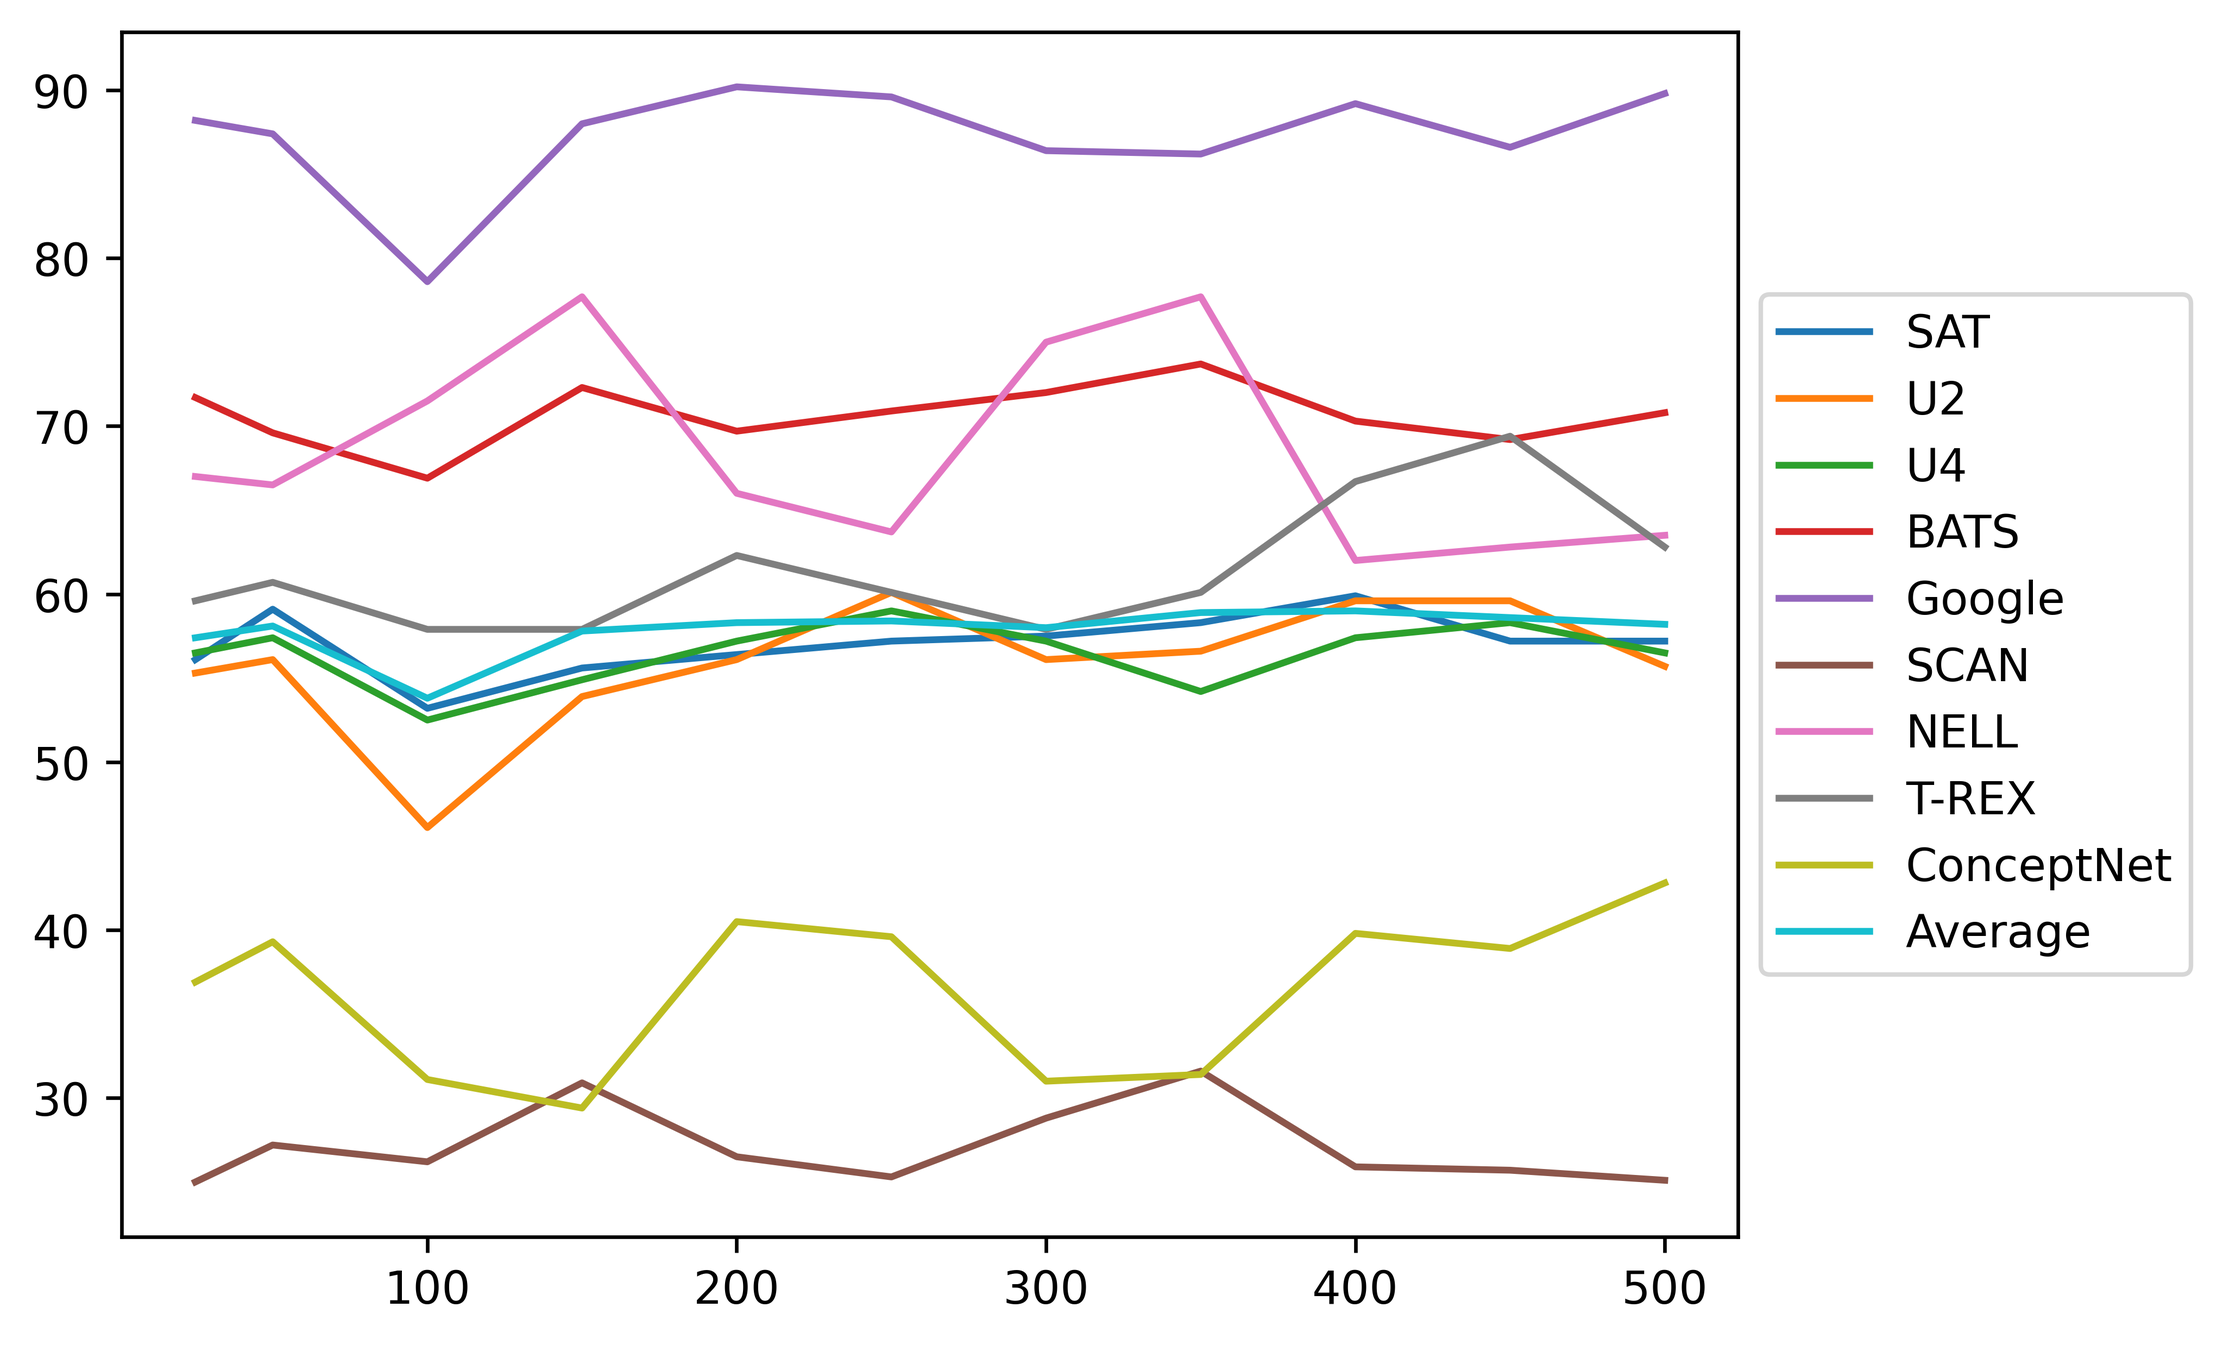
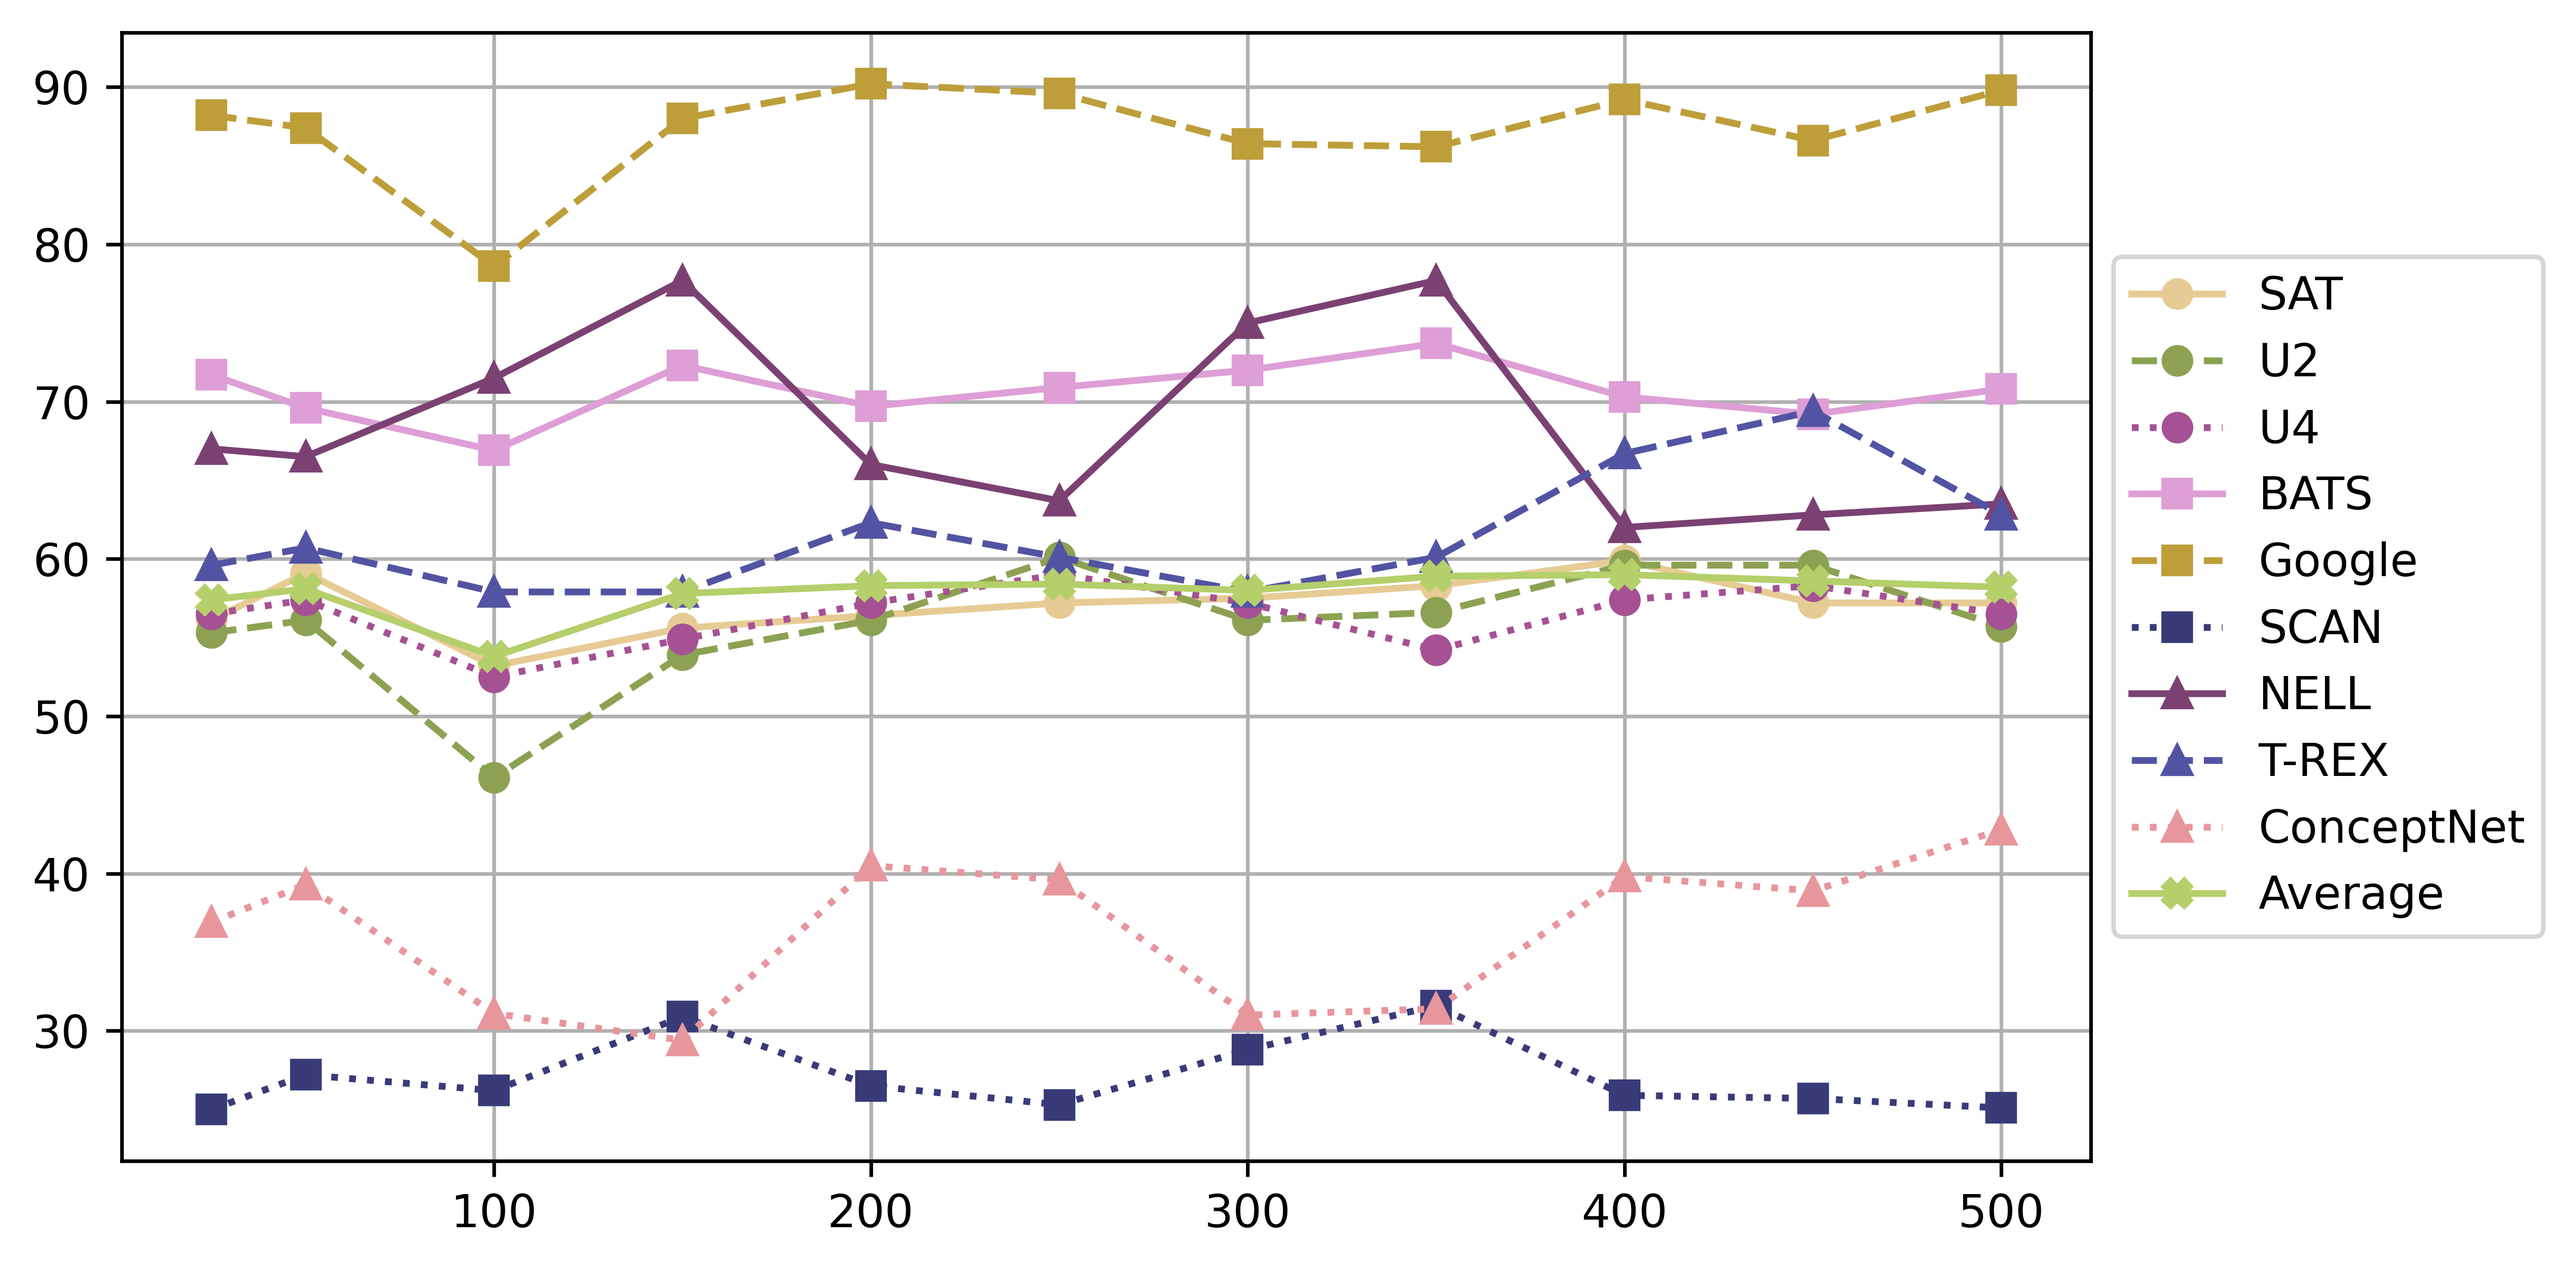
init

diff --git a/examples/journal/ablation_domain_wise_prediction/main.py b/examples/journal/ablation_domain_wise_prediction/main.py
@@ -1,0 +1,46 @@
+import os
+from statistics import mean
+
+import pandas as pd
+from datasets import load_dataset
+from relbert import RelBERT
+
+os.makedirs("results", exist_ok=True)
+
+def cosine_similarity(a, b):
+    norm_a = sum(map(lambda x: x * x, a)) ** 0.5
+    norm_b = sum(map(lambda x: x * x, b)) ** 0.5
+    return sum(map(lambda x: x[0] * x[1], zip(a, b)))/(norm_a * norm_b)
+
+
+data_names = {
+    'u2': [],
+    'u4': [],
+    'google': [],
+    'bats': [],
+    'scan': []
+}
+
+
+model = RelBERT("relbert/relbert-roberta-large")
+
+for i in data_names.keys():
+    if not os.path.exists(f"results/{i}.csv"):
+
+        data = load_dataset("relbert/analogy_questions", i, split='test')
+        v_stem = model.get_embedding(data['stem'])
+
+        choice_flat = []
+        choice_index = []
+        for n, c in enumerate(data['choice']):
+            choice_flat += c
+            choice_index += [n] * len(c)
+        v_choice_flat = model.get_embedding(choice_flat)
+
+        v_choice = [[v for v, c_i in zip(v_choice_flat, choice_index) if c_i == _i] for _i in range(len(data['choice']))]
+        assert len(v_choice) == len(v_stem)
+        sims = [[cosine_similarity(_c, s) for _c in c] for c, s in zip(v_choice, v_stem)]
+        pred = [s.index(max(s)) for s in sims]
+        acc = [int(a == p) for a, p in zip(data['answer'], pred)]
+        df = pd.DataFrame([data['prefix'], acc], index=['prefix', 'accuracy']).T
+        df.to_csv(f"results/{i}.csv")

diff --git a/examples/journal/ablation_negative_sample/plot.py b/examples/journal/ablation_negative_sample/plot.py
@@ -1,17 +1,27 @@
+from random import seed, shuffle
+import matplotlib as mpl
 import pandas as pd
 import matplotlib.pyplot as plt
+
+plt.rcParams.update({'font.size': 10})  # must set in top
+styles = ['o-', 'o--', 'o:', 's-', 's--', 's:', '^-', '^--', '^:', "X-", "X--", "X:"]
+seed(1)
+colors = list(mpl.colormaps['tab20b'].colors)
+shuffle(colors)
 
 df = pd.read_csv("result.csv", index_col=0)
 df.pop("template_id")
 df.pop("epoch")
 df_a = df[['SAT', 'U2', 'U4', 'BATS', 'Google', 'SCAN', 'NELL', 'T-REX', 'ConceptNet']]
 df_a["Average"] = df_a.mean(1).round(1)
-ax = df_a.plot()
+ax = df_a.plot(grid=True, style=styles, color=colors, figsize=(8, 4))
 ax.legend(loc='center left', bbox_to_anchor=(1, 0.5))
+plt.tight_layout()
 plt.savefig("analogy.png", bbox_inches="tight", dpi=600)
 
 df_c = df[['BLESS', 'CogALexV', 'EVALution', 'K&H+N', 'ROOT09']]
 df_c["Average"] = df_c.mean(1).round(1)
-ax = df_c.plot()
+ax = df_c.plot(grid=True, style=styles, color=colors, figsize=(8, 4))
 ax.legend(loc='center left', bbox_to_anchor=(1, 0.5))
+plt.tight_layout()
 plt.savefig("classification.png", bbox_inches="tight", dpi=600)

diff --git a/examples/journal/ablation_dataset/result.py b/examples/journal/ablation_dataset/result.py
@@ -61,5 +61,15 @@ if __name__ == '__main__':
     full_output += get_result(language_model="roberta-base", data_list='t-rex')
     full_output += get_result(language_model="roberta-base", data_list='nell')
     df = pd.DataFrame(full_output)
-    print(df)
     df.to_csv('result.csv', index=False)
+    df = df[[c for c in df.columns if 'valid' not in c]]
+    df.pop("sat/test.forward")
+    df = df[df['data'] == 't-rex']
+    df.pop("data")
+    df.pop("model")
+    df.pop("loss_function")
+    df.pop("aggregate")
+    print((df.T * 100).round(1))
+    print((df[[c for c in df.columns if 'test' in c]].mean(1)* 100).round(1))
+    print((df[[c for c in df.columns if c[0].isupper()]].mean(1) * 100).round(1))
+

diff --git a/examples/journal/_misc/_misc/data_stat.py b/examples/journal/_misc/_misc/data_stat.py
@@ -38,6 +38,8 @@ for d, name, parent, _type in data:
         r.update(set(x['validation']['relation_type']))
         r.intersection(set(x['test']['relation_type']))
         ratio = pretty(len(r.intersection(set(x["test"]["relation_type"])))/len(r) * 100)
+        for _s in ['train', 'validation']:
+            print(sum([len(i['positives']) for i in x[_s]]), _s, d)
         out.append({
             "Dataset": name,
             "#relations": "/".join([str(len(x[split])) for split in ['train', 'validation', 'test']]),

diff --git a/examples/journal/ablation_negative_sample/correlation.py b/examples/journal/ablation_negative_sample/correlation.py
@@ -1,0 +1,12 @@
+import pandas as pd
+from scipy.stats import pearsonr, spearmanr
+
+df = pd.read_csv("result.csv", index_col=0)
+df.pop("template_id")
+df.pop("epoch")
+corr = []
+for c in df.columns:
+    corr.append({"data": c, "corr": spearmanr(df[c], df.index)[0], "p": spearmanr(df[c], df.index)[1]})
+corr = pd.DataFrame(corr)
+
+print(corr)
